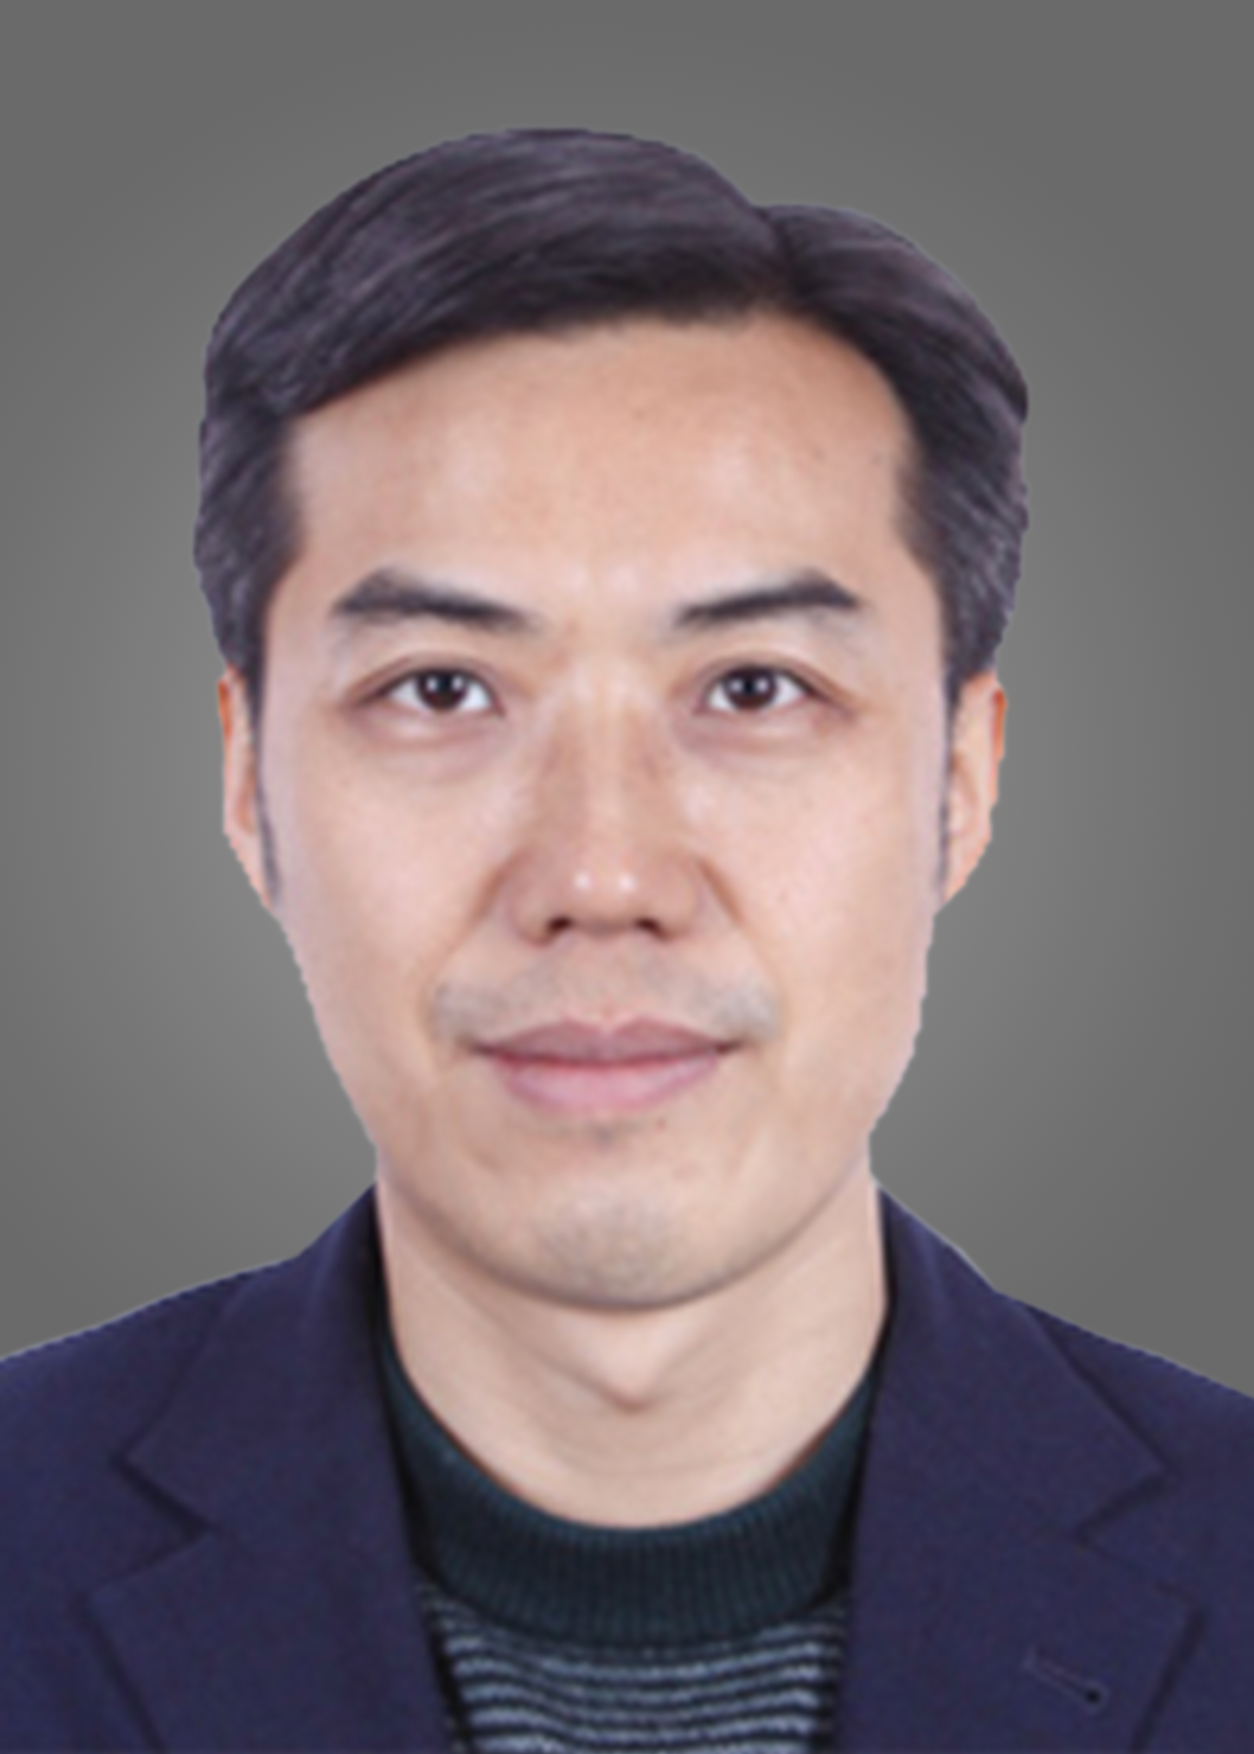
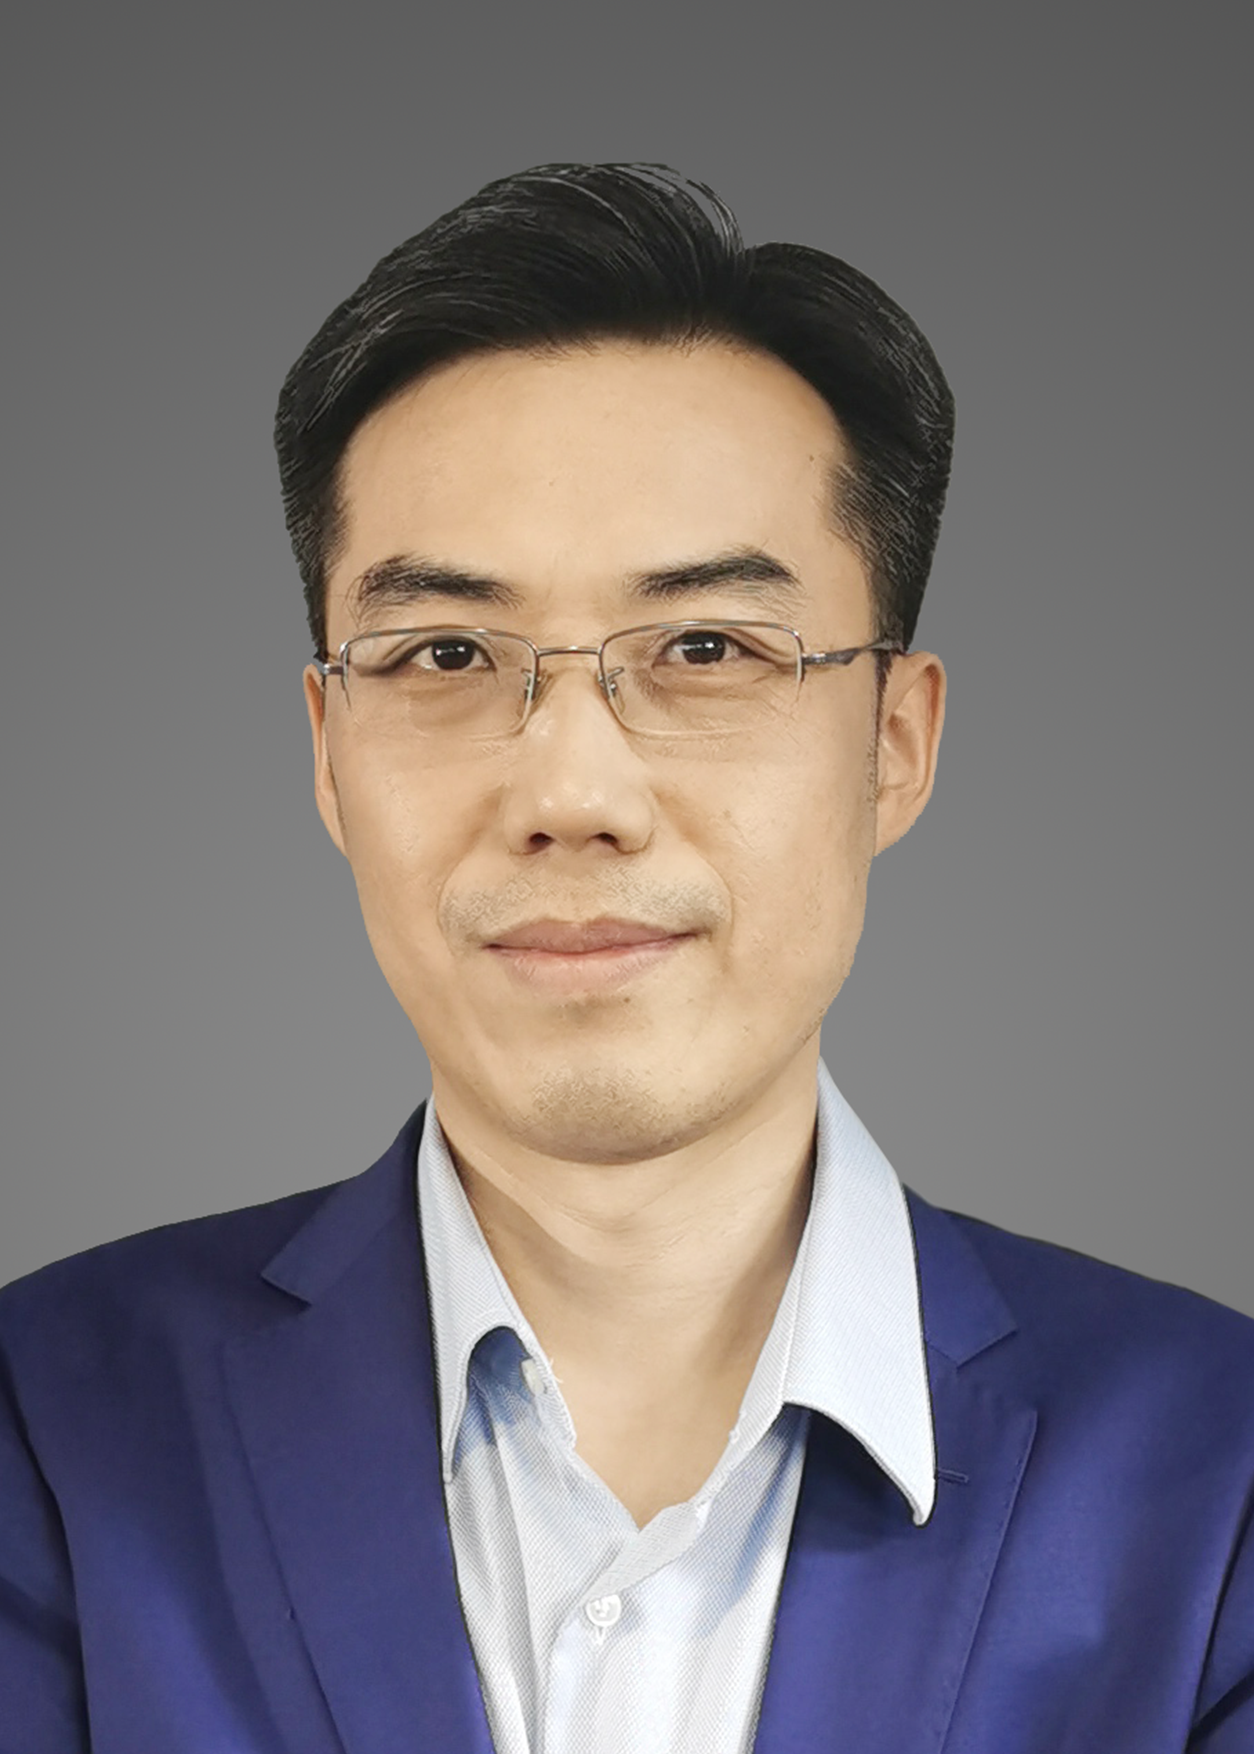
Minisite:1.“会场信息”改成“点击参会” 2.替换江大勇照片。3.修改“设计峰会”为“设计峰会（项目组专题研讨）”，并适配移动端。

diff --git a/content/en/summit/css/community.css b/content/en/summit/css/community.css
@@ -85,7 +85,7 @@ html,body{
     background-repeat: no-repeat;
 }
 .community-item-title.parters-link{
-    background-image: url('../img/2.png');
+    background-image: url('../img/3.png');
     background-position: center;
     background-repeat: no-repeat;
 }
@@ -454,7 +454,6 @@ html,body{
         height: 100%;
         transform: rotateY(0deg);
     }
-
     .community-parters img.mobile{
         display: none;
     }
@@ -625,8 +624,14 @@ html,body{
     .community-item-title{
         font-size: .5rem;
         line-height: .56rem;
-        margin-bottom: 0;
+        margin-bottom: 15px;
         background-size: 180px;
+    }
+    .summit-design {
+        background-size:372px;
+    }
+    .summit-design span{
+        display:block;
     }
     .summit .mobile-show{
         padding: 0;
@@ -707,7 +712,6 @@ html,body{
         font-size: .18rem;
         line-height: .24rem;
     }
-
     @media screen and (min-width: 319px) and (max-width: 767px) {
         .community-parters img.mobile{
             display: block;

diff --git a/themes/project/layouts/summit/single.html b/themes/project/layouts/summit/single.html
@@ -1,7 +1,7 @@
 <!DOCTYPE html>
 <html lang="{{ .Site.LanguageCode }}">
 {{ partial "head.html" . }}
-<link rel="stylesheet" href="./css/community.css?t=202000412">
+<link rel="stylesheet" href="./css/community.css?t=202000415">
 <body>
     <div id="all">
         <header>
@@ -350,7 +350,10 @@
             </div>
         </div>
         <div class="community-summit">
-            <p class="community-item-title summit-design">{{.Params.DesignSummit}}</p>
+            <p class="community-item-title summit-design">
+                <span >{{.Params.DesignSummit1}}</span>
+                <span>{{.Params.DesignSummit2}}</span>
+            </p>
             <!-- <p class="community-item-tip">Design Summit</p> -->
             <!-- <ul class="community-day">
                 <li class="first-day active">DAY 1</li>

diff --git a/content/zh/summit/css/community.css b/content/zh/summit/css/community.css
@@ -85,7 +85,7 @@ html,body{
     background-repeat: no-repeat;
 }
 .community-item-title.parters-link{
-    background-image: url('../img/2.png');
+    background-image: url('../img/3.png');
     background-position: center;
     background-repeat: no-repeat;
 }
@@ -624,8 +624,14 @@ html,body{
     .community-item-title{
         font-size: .5rem;
         line-height: .56rem;
-        margin-bottom: 0;
+        margin-bottom: 15px;
         background-size: 180px;
+    }
+    .summit-design {
+        background-size:372px; 
+    }
+    .summit-design span{
+        display:block;
     }
     .summit .mobile-show{
         padding: 0;

diff --git a/content/zh/summit/2020-virtual-summit.md b/content/zh/summit/2020-virtual-summit.md
@@ -4,7 +4,8 @@ title = "openEuler 峰会 2020"
 banner= "./img/summitBannerWeb_zh.png"
 bannerM= "./img/summitBannerMobile_zh.png"
 
-DesignSummit= "设计峰会"
+DesignSummit1= "设计峰会"
+DesignSummit2= "（项目组专题研讨）"
 
 registerUrlAtBanner = "https://e.huawei.com/cn/form/event/en/open-euler-virtual-summit-2020"
 
@@ -123,7 +124,7 @@ room1Period1GroupName = ""
 room1Period1ChairName = "郭寒军"
 room1Period1ChairIntroduction =  "openEuler Kernel Maintainer"
 room1Period1MeetingInfo = " "
-roomPeriodSignUp = "会场信息"
+roomPeriodSignUp = "点击参会"
 room1Period1SignUpLink = "https://welink-meeting.zoom.us/j/138895546"
 roomPeriodMeeting = "会议内容"
 room1Period1MeetingLink = "http://etherpad.openeuler.org/p/openeuler-virtual-summit-2020-community-kernel"

diff --git a/content/en/summit/2020-virtual-summit.md b/content/en/summit/2020-virtual-summit.md
@@ -5,7 +5,8 @@ banner= "./img/summitBannerWeb_en.png"
 bannerM= "./img/summitBannerMobile_en.png"
 
 
-DesignSummit= "Design Summit"
+DesignSummit1= "Design Summit "
+DesignSummit2= "(SIG Workshop)"
 
 registerUrlAtBanner = "https://e.huawei.com/en/form/event/en/open-euler-virtual-summit-2020"
 
